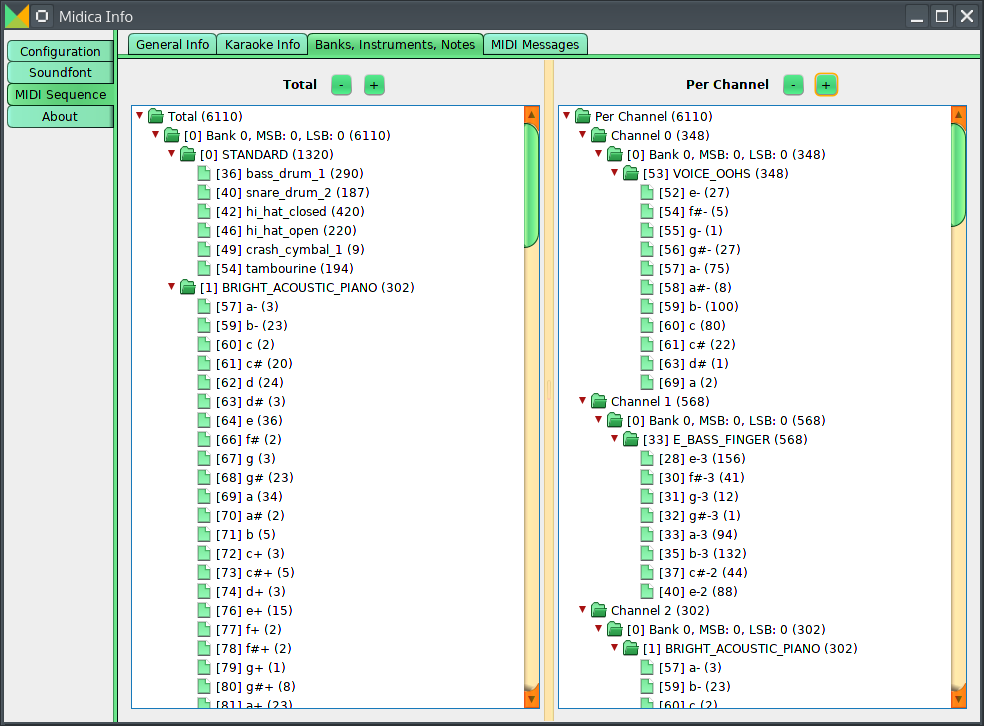
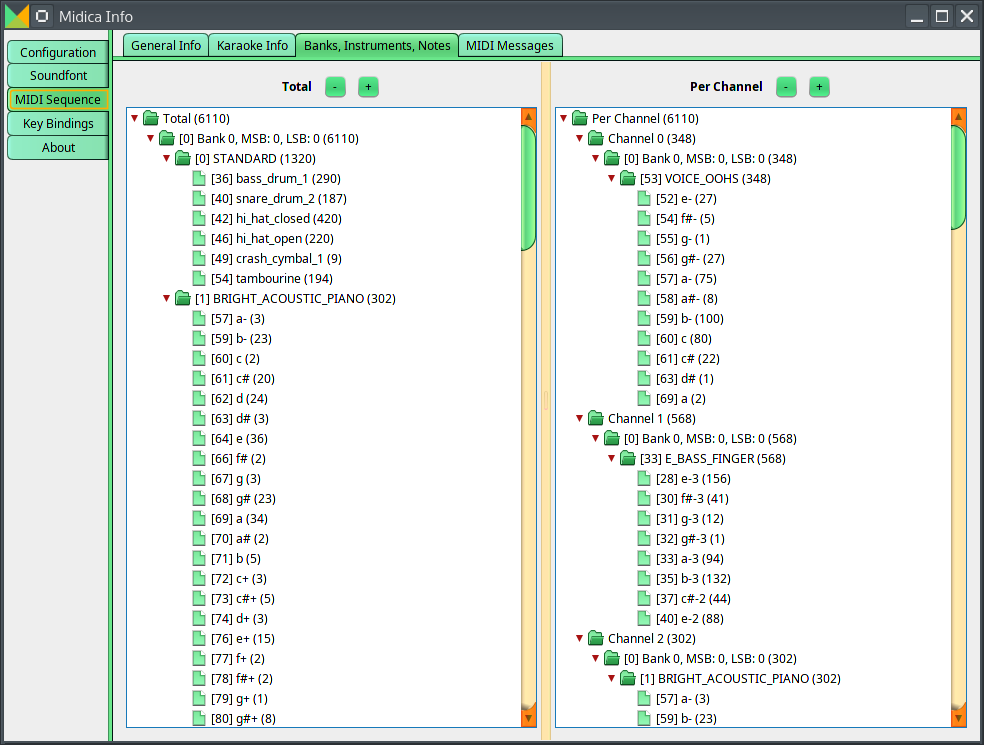
added key binding tab

Changed region(s): [[0.0, 0.0, 1.0, 1.0], [0.9451, 0.1212, 0.9756, 0.1515]]

diff --git a/src/pages/screenshots.html b/src/pages/screenshots.html
@@ -454,13 +454,17 @@ meta-title: Midica - Screenshots
 			<h2>Info Window</h2>
 		</div>
 		<div class="cell">
-			<p>The Info window can be reached by clicking <b>Info &amp; Configuration Details</b>, either from the main window or from the player.</p>
+			<p>
+				The Info window can be reached by clicking <b>Info &amp; Configuration Details</b>, either from the main window or from the player.
+			</p>
 		</div>
 		<div class="cell" id="info-config">
 			<h3>Configuration Tab</h3>
 		</div>
 		<div class="cell">
-			<p>In the <b>Configuration</b> tab you can view the current configuration, mainly used for the interpretation of MidicaPL source files.</p>
+			<p>
+				In the <b>Configuration</b> tab you can view the current configuration, mainly used for the interpretation of MidicaPL source files.
+			</p>
 		</div>
 		<div class="cell large-6">
 			<img src="assets/img/info_conf_note.png" />
@@ -481,7 +485,9 @@ meta-title: Midica - Screenshots
 			<h3>Soundfont Tab</h3>
 		</div>
 		<div class="cell">
-			<p>The <b>Soundfont</b> tab can be used to analyze the currently loaded soundfont.</p>
+			<p>
+				The <b>Soundfont</b> tab can be used to analyze the currently loaded soundfont.
+			</p>
 		</div>
 		<div class="cell large-6">
 			<img src="assets/img/info_soundfont_general.png" />
@@ -499,7 +505,9 @@ meta-title: Midica - Screenshots
 			<h3>Sequence Tab</h3>
 		</div>
 		<div class="cell">
-			The <b>Sequence</b> tab can be used to analyze the currently loaded MIDI sequence, no matter if it has been loaded from a MIDI file or a MidicaPL file.
+			<p>
+				The <b>Sequence</b> tab can be used to analyze the currently loaded MIDI sequence, no matter if it has been loaded from a MIDI file or a MidicaPL file.
+			</p>
 		</div>
 		<div class="cell large-6">
 			<img src="assets/img/info_midi_general.png" />
@@ -522,11 +530,37 @@ meta-title: Midica - Screenshots
 		<div class="cell large-6">
 			<img src="assets/img/info_midi_messages_3.png" />
 		</div>
+		<div class="cell" id="info-keybindings">
+			<h3>Key Bindings Tab</h3>
+		</div>
+		<div class="cell">
+			<p>
+				The <b>Key Bindings</b> tab can be used to show or configure key bindings.
+				The tree on the left side contains all actions for which key bindings can be configured, grouped by the window where they appear.
+			</p>
+			<p>
+				In the <b>filter</b> field you can filter by action description or key binding.
+				Windows without any action matching the filter are displayed in gray.
+			</p>
+			<p>
+				When an action is selected in the tree, its details are displayed on the right side.
+				An action can contain more than one key bindings. You can add your own key bindings by pressing the key combination while the
+				according field is focused.
+			</p>
+		</div>
+		<div class="cell large-6">
+			<img src="assets/img/info_keybinding_1.png" />
+		</div>
+		<div class="cell large-6">
+			<img src="assets/img/info_keybinding_2.png" />
+		</div>
 		<div class="cell" id="info-about">
 			<h3>About Tab</h3>
 		</div>
 		<div class="cell">
-			The <b>About</b> tab shows information about the version, date, etc.
+			<p>
+				The <b>About</b> tab shows information about the version, date, etc.
+			</p>
 		</div>
 		<div class="cell large-6">
 			<img src="assets/img/info_about.png" id="last-element" />
